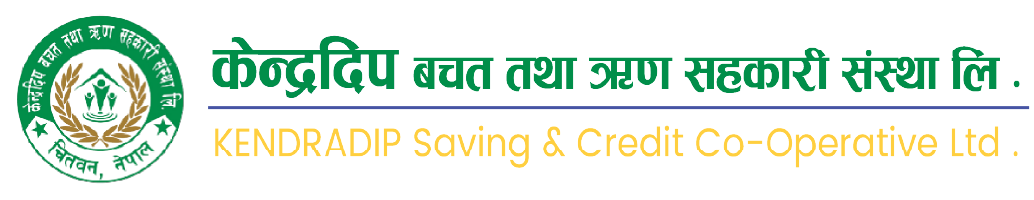
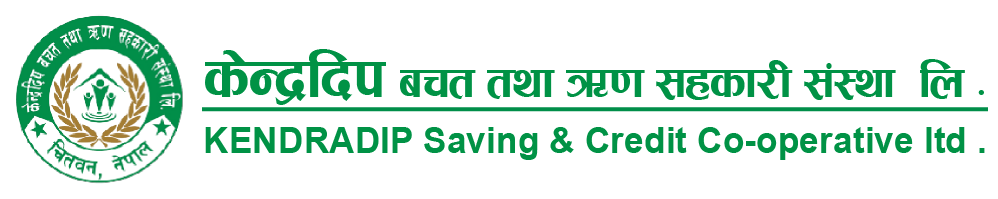
kendradip res added

Changed region(s): [[0.0, 0.0905, 1.0, 0.9347]]

diff --git a/lib/common/constant/env.dart b/lib/common/constant/env.dart
@@ -3561,19 +3561,19 @@ class CoOperativeValue {
     coOperativeName: "Taksar Saving & Credit Co-operative Ltd.",
     appTitle: "Taksar iSmart",
   );
-   static final CoOperative chetanaCoop = CoOperative(
+  static final CoOperative chetanaCoop = CoOperative(
     appStoreID: "",
     packageName: "com.devanasoft.chetana",
     baseUrl: 'https://ismart.devanasoft.com.np/',
     bannerImage: "assets/chetana/chetana_banner.png",
     backgroundImage: "assets/chetana/chetana_background.png",
-    clientCode: 'BTOEHC7LZE',
-    clientSecret: "123357",
+    clientCode: 'UTNJUDPOQR',
+    clientSecret: "218315",
     coOperativeLogo: 'assets/chetana/chetana_logo.png',
     splashImage: "assets/chetana/chetana_splash.png",
-    primaryColor: const Color(0xFFf38a2c),
+    primaryColor: const Color(0xFF39a748),
     coOperativeName: "Chetana Saving & Credit Co-Operative Society Ltd..",
     appTitle: "Chetana iSmart",
   );
-  static final CoOperative currentCoop = chetanaCoop;
+  static final CoOperative currentCoop = kendradipCoop;
 }
